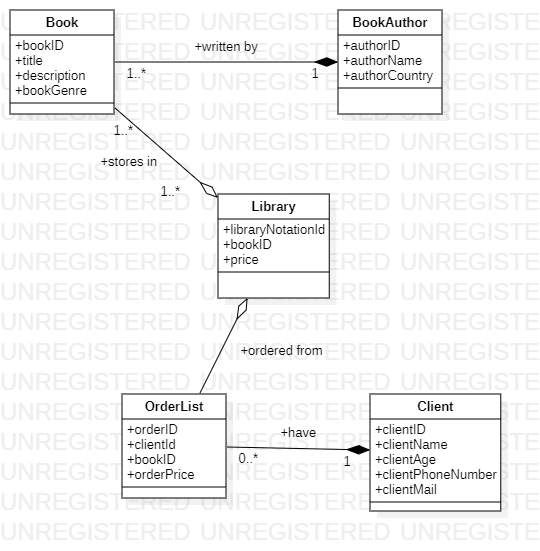
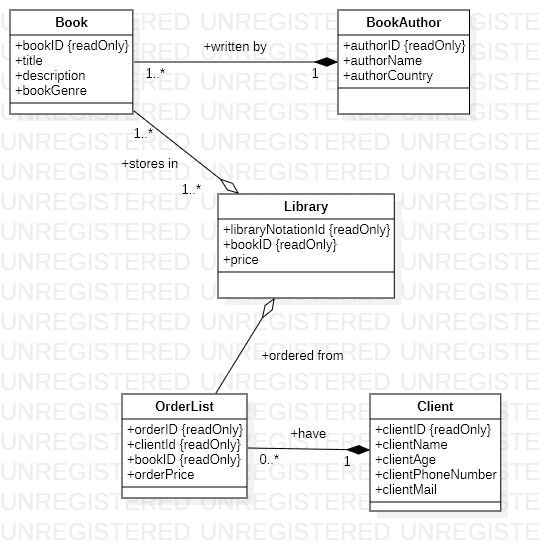
Total Redone

diff --git a/ConsoleApp/Library/Client.cs b/ConsoleApp/Library/Client.cs
@@ -1,0 +1,9 @@
+namespace ConsoleApp.Library;
+class Client
+{
+    public int clientId { get; init; }
+    public string clientName { get; set; }
+    public byte clientAge { get; set; }
+    public string clientPhoneNumber { get; set; }
+    public string clientMail { get; set; }
+}

diff --git a/ConsoleApp/Library/OrderList.cs b/ConsoleApp/Library/OrderList.cs
@@ -1,0 +1,8 @@
+namespace ConsoleApp.Library;
+class OrderList
+{
+    public int orderId{ get; init; }
+    public int clientID{ get; init; }
+    public int bookId{ get; init; }
+    public System.Decimal orderPrice{ get; set; }
+}

diff --git a/ConsoleApp/Library/Book.cs b/ConsoleApp/Library/Book.cs
@@ -1,0 +1,8 @@
+namespace ConsoleApp.Library;
+class Book
+{
+    public int bookId { get; init; }
+    public string title { get; set; }
+    public string description { get; set; }
+    public string bookGenre { get; set; }
+}

diff --git a/ConsoleApp/Library/Library.cs b/ConsoleApp/Library/Library.cs
@@ -1,0 +1,7 @@
+namespace ConsoleApp.Library;
+class Library
+{
+     public int libraryNotationId{ get; init; }
+     public int bookId{ get; init; }
+     public System.Decimal price{ get; set; }
+}

diff --git a/ConsoleApp/Library/BookAuthor.cs b/ConsoleApp/Library/BookAuthor.cs
@@ -1,0 +1,7 @@
+namespace ConsoleApp.Library;
+class BookAuthor
+{
+    public int authorId{ get; init; } 
+    public string authorName{ get; set; }
+    public string authorCountry{ get; set; }
+}
